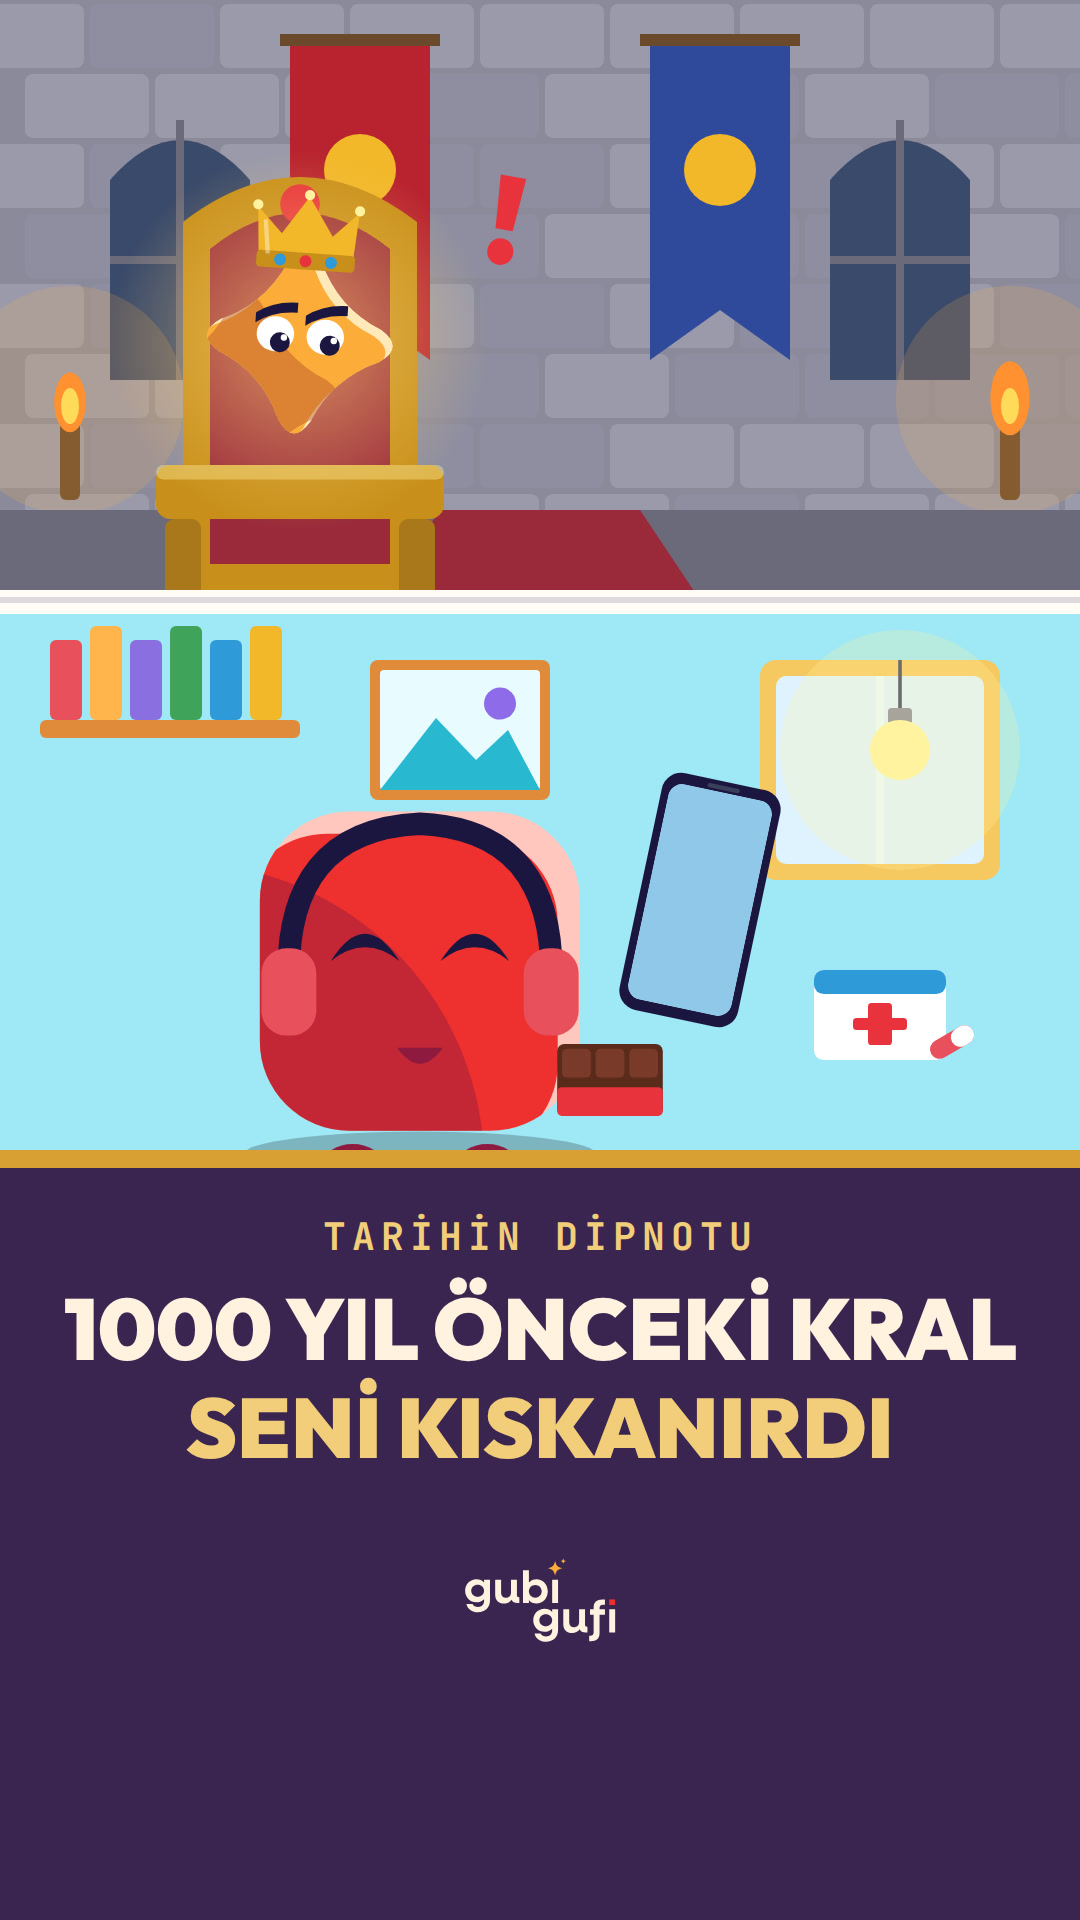
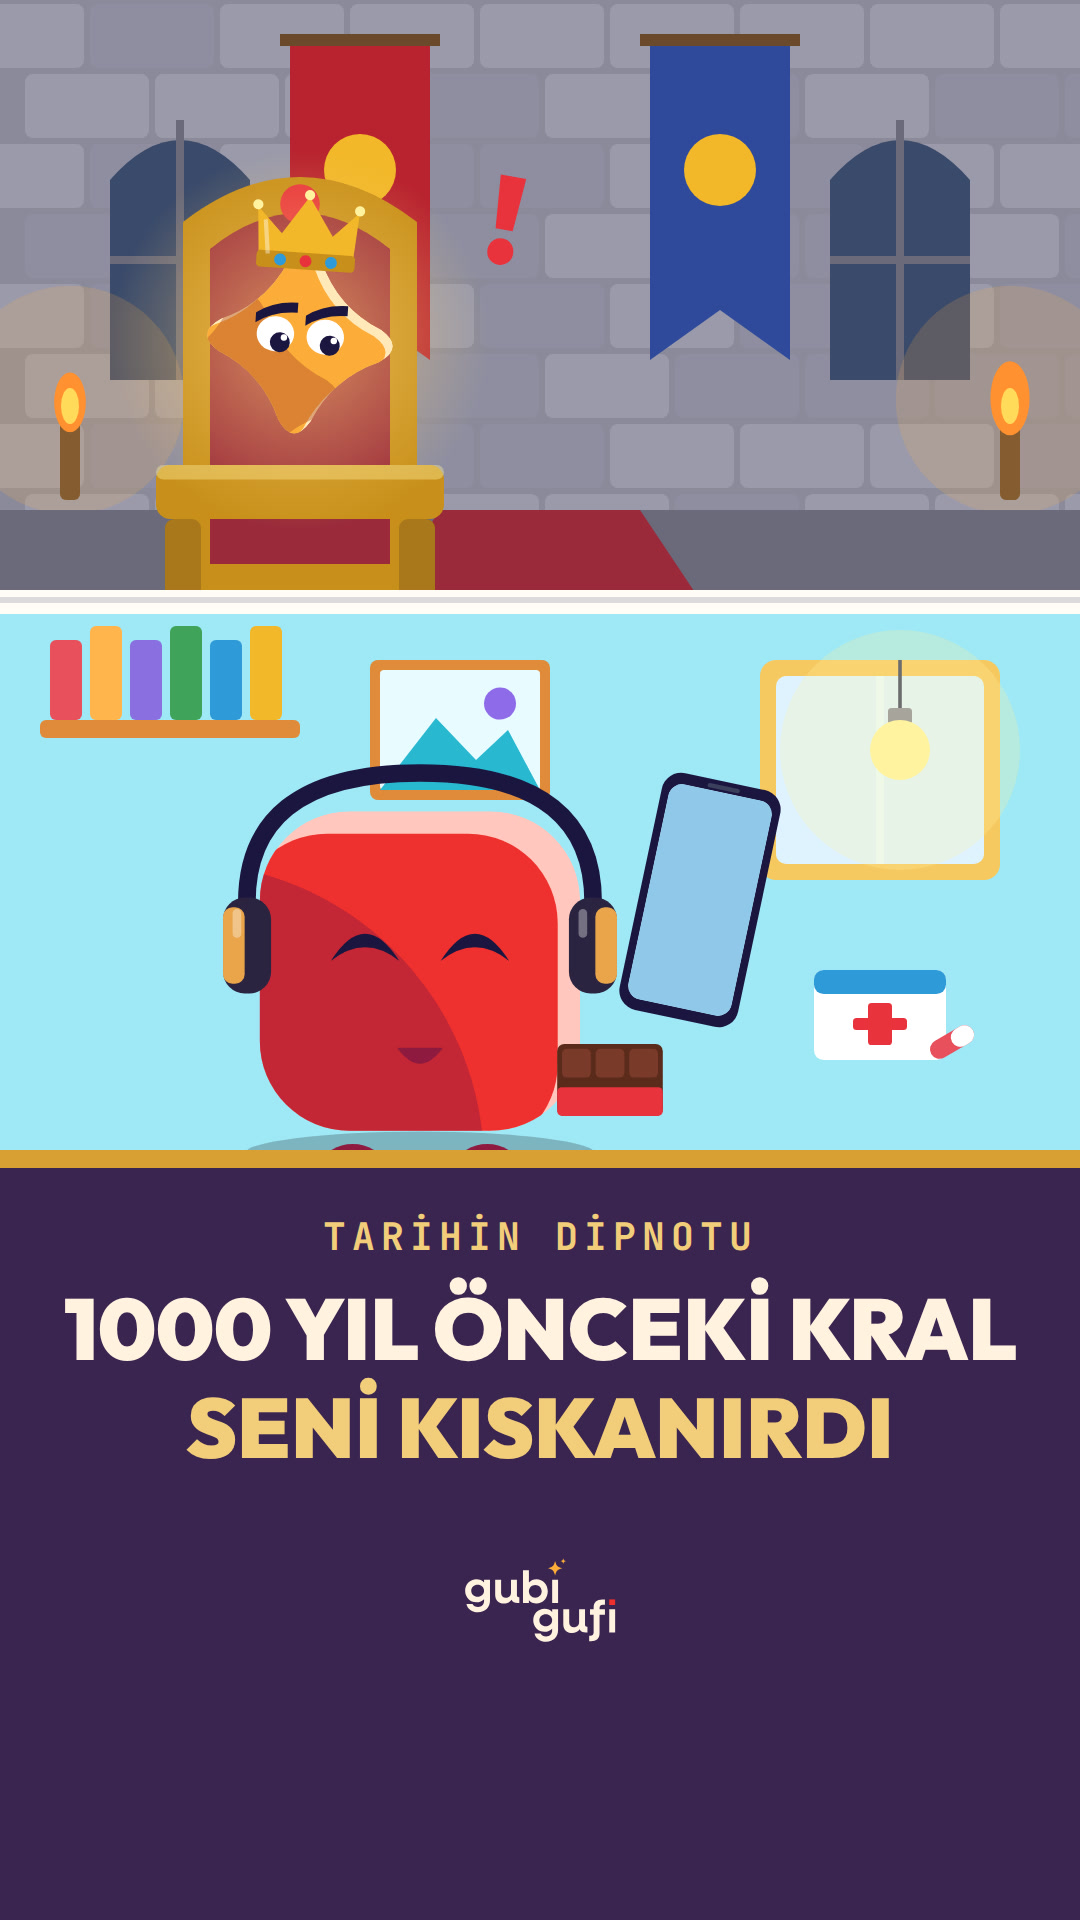
Kulaklık kostümü gerçekçi: bant başın üstünden, kaplar yan kenarlarda göz hizasında; #18 sahne 9 + kapak yeniden
Claude-Session: https://claude.ai/code/session_01XpFWe2qV8RD24ed2Fkasje

Changed region(s): [[0.1833, 0.375, 0.5806, 0.5625]]

diff --git a/gubigufi/2026-09-30/18-kral-kiskanirdi/kaynak/ortak/kostum.js b/gubigufi/2026-09-30/18-kral-kiskanirdi/kaynak/ortak/kostum.js
@@ -30,8 +30,12 @@ const KO = (() => {
       return `<path d="M${x - w * .55} ${y + w * .25} Q${x - w * .6} ${y - w * .7} ${x} ${y - w * .75} Q${x + w * .7} ${y - w * .8} ${x + w * 1.0} ${y - w * .15} Q${x + w * .6} ${y - w * .35} ${x + w * .55} ${y + w * .25} Q${x} ${y - w * .1} ${x - w * .55} ${y + w * .25}Z" fill="${renk}"/><path d="M${x - w * .45} ${y + w * .1} Q${x} ${y - w * .35} ${x + w * .45} ${y + w * .1}" stroke="#000" stroke-opacity=".18" stroke-width="${w * .05}" fill="none"/>`; },
     tac: (c, { renk = '#F2B82A', tas = '#E8323C' } = {}) => { const w = c.w * 1.25, x = c.tx, y = c.ty + c.w * .25;
       return `<path d="M${x - w * .55} ${y} L${x - w * .6} ${y - w * .65} L${x - w * .3} ${y - w * .35} L${x} ${y - w * .8} L${x + w * .3} ${y - w * .35} L${x + w * .6} ${y - w * .65} L${x + w * .55} ${y}Z" fill="${renk}"/><rect x="${x - w * .58}" y="${y - w * .14}" width="${w * 1.16}" height="${w * .2}" rx="${w * .05}" fill="#C8901A"/>` + [-.3, 0, .3].map(k => `<circle cx="${x + k * w}" cy="${y - w * .04}" r="${w * .07}" fill="${k ? '#2E9AD8' : tas}"/>`).join('') + [-.6, 0, .6].map(k => `<circle cx="${x + k * w}" cy="${y - w * (k ? .67 : .82)}" r="${w * .06}" fill="#FFF3A0"/>`).join('') + `<path d="M${x - w * .45} ${y - w * .1} L${x - w * .5} ${y - w * .5}" stroke="#FFFFFF" stroke-width="${w * .05}" opacity=".4"/>`; },
-    kulaklik: (c, { renk = '#1B1640', ped = '#E8505B' } = {}) => { const r = c.w * .5, x = c.tx, y = c.ty + c.w * .45;
-      return `<path d="M${x - r * 1.05} ${y + r * .5} Q${x - r * 1.1} ${y - r * .75} ${x} ${y - r * .8} Q${x + r * 1.1} ${y - r * .75} ${x + r * 1.05} ${y + r * .5}" stroke="${renk}" stroke-width="${r * .18}" fill="none"/>` + [-1, 1].map(k => `<rect x="${x + k * r * 1.05 - r * .22}" y="${y + r * .2}" width="${r * .44}" height="${r * .7}" rx="${r * .2}" fill="${ped}"/>`).join(''); },
+    kulaklik: (c, { renk = '#1B1640', ped = '#2A2440', serit = '#FFB44C' } = {}) => {
+      // Gufi (kare) için: bant başın üst kenarının biraz DIŞINDAN geçer, kulaklıklar başın yan kenarlarına göz hizasında oturur
+      const b = c.w / .78, x = c.tx, top = c.ty, yan = b * .54, kg = c.gy - b * .02, kw = b * .15, kh = b * .3, bk = b * .055;
+      const bant = `<path d="M${x - yan} ${kg - kh * .35} Q${x - yan - b * .02} ${top - b * .12} ${x} ${top - b * .12} Q${x + yan + b * .02} ${top - b * .12} ${x + yan} ${kg - kh * .35}" stroke="${renk}" stroke-width="${bk}" fill="none" stroke-linecap="round"/>`;
+      const kap = k => `<rect x="${x + k * yan - kw / 2}" y="${kg - kh / 2}" width="${kw}" height="${kh}" rx="${kw * .45}" fill="${ped}"/><rect x="${x + k * yan - kw / 2 + (k > 0 ? kw * .55 : 0)}" y="${kg - kh / 2 + kh * .1}" width="${kw * .45}" height="${kh * .8}" rx="${kw * .2}" fill="${serit}" opacity=".9"/><rect x="${x + k * yan - kw * .3}" y="${kg - kh * .38}" width="${kw * .18}" height="${kh * .3}" rx="${kw * .09}" fill="#FFFFFF" opacity=".35"/>`;
+      return bant + kap(-1) + kap(1); },
     disBandaj: (c, { renk = '#FFFDF6' } = {}) => { const w = c.w * 1.4, x = c.tx, y = c.gy + c.ga * 1.4;
       return `<path d="M${x - w * .7} ${y} Q${x} ${y + w * .25} ${x + w * .7} ${y} L${x + w * .5} ${c.ty + c.w * .1} Q${x} ${c.ty - c.w * .05} ${x - w * .5} ${c.ty + c.w * .1}Z" fill="none" stroke="${renk}" stroke-width="${w * .16}" stroke-linejoin="round"/><path d="M${x - w * .08} ${c.ty} l${-w * .18} ${-w * .22} M${x + w * .08} ${c.ty} l${w * .18} ${-w * .22}" stroke="${renk}" stroke-width="${w * .12}" stroke-linecap="round"/>`; },
     monokl: (c, { renk = '#FFC24C' } = {}) => { const x = c.tx + c.ga, y = c.gy, r = c.ga * .95;

diff --git a/gubigufi/marka/ortak/kostum.js b/gubigufi/marka/ortak/kostum.js
@@ -30,8 +30,12 @@ const KO = (() => {
       return `<path d="M${x - w * .55} ${y + w * .25} Q${x - w * .6} ${y - w * .7} ${x} ${y - w * .75} Q${x + w * .7} ${y - w * .8} ${x + w * 1.0} ${y - w * .15} Q${x + w * .6} ${y - w * .35} ${x + w * .55} ${y + w * .25} Q${x} ${y - w * .1} ${x - w * .55} ${y + w * .25}Z" fill="${renk}"/><path d="M${x - w * .45} ${y + w * .1} Q${x} ${y - w * .35} ${x + w * .45} ${y + w * .1}" stroke="#000" stroke-opacity=".18" stroke-width="${w * .05}" fill="none"/>`; },
     tac: (c, { renk = '#F2B82A', tas = '#E8323C' } = {}) => { const w = c.w * 1.25, x = c.tx, y = c.ty + c.w * .25;
       return `<path d="M${x - w * .55} ${y} L${x - w * .6} ${y - w * .65} L${x - w * .3} ${y - w * .35} L${x} ${y - w * .8} L${x + w * .3} ${y - w * .35} L${x + w * .6} ${y - w * .65} L${x + w * .55} ${y}Z" fill="${renk}"/><rect x="${x - w * .58}" y="${y - w * .14}" width="${w * 1.16}" height="${w * .2}" rx="${w * .05}" fill="#C8901A"/>` + [-.3, 0, .3].map(k => `<circle cx="${x + k * w}" cy="${y - w * .04}" r="${w * .07}" fill="${k ? '#2E9AD8' : tas}"/>`).join('') + [-.6, 0, .6].map(k => `<circle cx="${x + k * w}" cy="${y - w * (k ? .67 : .82)}" r="${w * .06}" fill="#FFF3A0"/>`).join('') + `<path d="M${x - w * .45} ${y - w * .1} L${x - w * .5} ${y - w * .5}" stroke="#FFFFFF" stroke-width="${w * .05}" opacity=".4"/>`; },
-    kulaklik: (c, { renk = '#1B1640', ped = '#E8505B' } = {}) => { const r = c.w * .5, x = c.tx, y = c.ty + c.w * .45;
-      return `<path d="M${x - r * 1.05} ${y + r * .5} Q${x - r * 1.1} ${y - r * .75} ${x} ${y - r * .8} Q${x + r * 1.1} ${y - r * .75} ${x + r * 1.05} ${y + r * .5}" stroke="${renk}" stroke-width="${r * .18}" fill="none"/>` + [-1, 1].map(k => `<rect x="${x + k * r * 1.05 - r * .22}" y="${y + r * .2}" width="${r * .44}" height="${r * .7}" rx="${r * .2}" fill="${ped}"/>`).join(''); },
+    kulaklik: (c, { renk = '#1B1640', ped = '#2A2440', serit = '#FFB44C' } = {}) => {
+      // Gufi (kare) için: bant başın üst kenarının biraz DIŞINDAN geçer, kulaklıklar başın yan kenarlarına göz hizasında oturur
+      const b = c.w / .78, x = c.tx, top = c.ty, yan = b * .54, kg = c.gy - b * .02, kw = b * .15, kh = b * .3, bk = b * .055;
+      const bant = `<path d="M${x - yan} ${kg - kh * .35} Q${x - yan - b * .02} ${top - b * .12} ${x} ${top - b * .12} Q${x + yan + b * .02} ${top - b * .12} ${x + yan} ${kg - kh * .35}" stroke="${renk}" stroke-width="${bk}" fill="none" stroke-linecap="round"/>`;
+      const kap = k => `<rect x="${x + k * yan - kw / 2}" y="${kg - kh / 2}" width="${kw}" height="${kh}" rx="${kw * .45}" fill="${ped}"/><rect x="${x + k * yan - kw / 2 + (k > 0 ? kw * .55 : 0)}" y="${kg - kh / 2 + kh * .1}" width="${kw * .45}" height="${kh * .8}" rx="${kw * .2}" fill="${serit}" opacity=".9"/><rect x="${x + k * yan - kw * .3}" y="${kg - kh * .38}" width="${kw * .18}" height="${kh * .3}" rx="${kw * .09}" fill="#FFFFFF" opacity=".35"/>`;
+      return bant + kap(-1) + kap(1); },
     disBandaj: (c, { renk = '#FFFDF6' } = {}) => { const w = c.w * 1.4, x = c.tx, y = c.gy + c.ga * 1.4;
       return `<path d="M${x - w * .7} ${y} Q${x} ${y + w * .25} ${x + w * .7} ${y} L${x + w * .5} ${c.ty + c.w * .1} Q${x} ${c.ty - c.w * .05} ${x - w * .5} ${c.ty + c.w * .1}Z" fill="none" stroke="${renk}" stroke-width="${w * .16}" stroke-linejoin="round"/><path d="M${x - w * .08} ${c.ty} l${-w * .18} ${-w * .22} M${x + w * .08} ${c.ty} l${w * .18} ${-w * .22}" stroke="${renk}" stroke-width="${w * .12}" stroke-linecap="round"/>`; },
     monokl: (c, { renk = '#FFC24C' } = {}) => { const x = c.tx + c.ga, y = c.gy, r = c.ga * .95;
